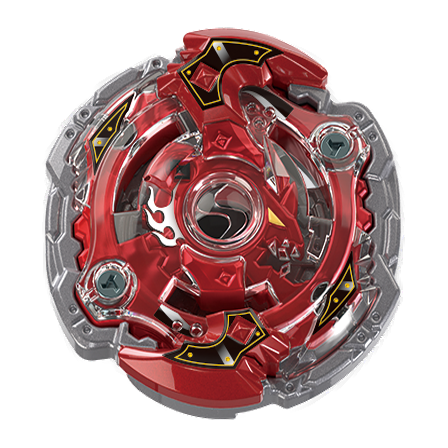
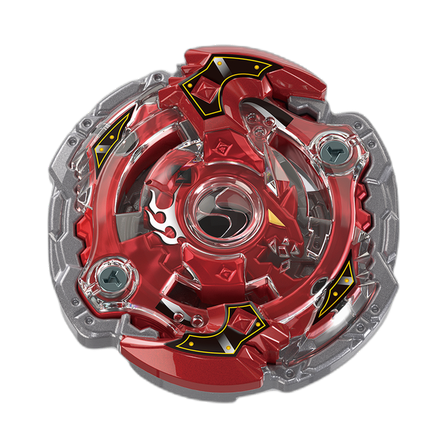
fix: update Storm Spriggan front image

diff --git a/index.html b/index.html
@@ -484,14 +484,14 @@
         "#app/services": "./src/app-services.js?v=20260714-scroll-affordance-overlay",
         "#app/markup-core": "./src/markup-core.js?v=20260714-scroll-affordance-overlay",
         "#app/anime-core": "./src/anime-core.js?v=20260720-burst-airdate-notes",
-        "#app/data-store": "./src/data-store.js?v=20260807-x-image-cache-refresh",
+        "#app/data-store": "./src/data-store.js?v=20260807-x-storm-spriggan-front-select-audit",
         "#app/search-data-decoder": "./src/search-data-decoder.js?v=20260720-burst-airdate-notes",
         "#app/ui-core": "./src/ui-core.js?v=20260731-mobile-highlight-fix",
         "#app/release-core": "./src/release-core.js?v=20260731-mobile-highlight-fix",
         "#app/scroll-affordance": "./src/scroll-affordance.js?v=20260719-dropdown-shadow-mounted-label",
         "#app/search-core": "./src/search-core.js?v=20260717-dead-code-cleanup",
         "#app/search-engine": "./src/search-engine.js?v=20260731-mobile-highlight-fix",
-        "#app/catalog-model": "./src/catalog-model.js?v=20260807-x-image-cache-refresh",
+        "#app/catalog-model": "./src/catalog-model.js?v=20260807-x-storm-spriggan-front-select-audit",
         "#app/collection-view": "./src/collection-view.js?v=20260731-mobile-highlight-fix",
         "#app/catalog-view": "./src/catalog-view.js?v=20260717-dead-code-cleanup",
         "#app/route-parser": "./src/route-parser.js?v=20260714-scroll-affordance-overlay",
@@ -500,7 +500,7 @@
         "#app/search-controller": "./src/search-controller.js?v=20260714-scroll-affordance-overlay",
         "#app/search-help-controller": "./src/search-help-controller.js?v=20260717-dead-code-cleanup",
         "#app/detail-view": "./src/detail-view.js?v=20260803-modal-tag-wheel-edge",
-        "#app/image-preview": "./src/image-preview.js?v=20260807-x-image-cache-refresh",
+        "#app/image-preview": "./src/image-preview.js?v=20260807-x-storm-spriggan-front-select-audit",
         "#app/modal-context": "./src/modal-context.js?v=20260714-scroll-affordance-overlay",
         "#app/style-loader": "./src/style-loader.js?v=20260804-mobile-modal-scrollbar-centering",
         "#app/feature-loaders": "./src/feature-loaders.js?v=20260717-dead-code-cleanup",

diff --git a/src/data-store.js b/src/data-store.js
@@ -8,7 +8,7 @@ const bookItems = [];
 const gameItems = [];
 const animeInfo = { title: "", overview: [], characters: [], episodes: [] };
 const searchIndexItems = [];
-const X_ASSET_CACHE_VERSION = "20260807-x-image-cache-refresh";
+const X_ASSET_CACHE_VERSION = "20260807-x-storm-spriggan-front-select-audit";
 
 const versionAssetUrl = source => {
   const value = String(source || "");

diff --git a/scripts/normalize-x-bey-front-images.py b/scripts/normalize-x-bey-front-images.py
@@ -16,7 +16,7 @@ from PIL import Image
 
 CONFIG_PATH = Path("data/source/x-bey-primary-images.json")
 ANGLE_CONFIG_PATH = Path("data/source/x-bey-angle-corrections.json")
-CONFIG_VERSION = "20260807-x-front-image-corrections"
+CONFIG_VERSION = "20260807-x-storm-spriggan-front-select-audit"
 CANVAS_SIZE = 448
 TARGET_FOREGROUND_SIZE = 360
 ALPHA_THRESHOLD = 3
@@ -74,9 +74,6 @@ def resize_premultiplied(image: Image.Image, size: tuple[int, int]) -> Image.Ima
 
 def normalized_image(source: Image.Image) -> tuple[Image.Image, list[int]]:
     rgba = source.convert("RGBA")
-    if rgba.size != (CANVAS_SIZE, CANVAS_SIZE):
-        raise ValueError(f"expected {CANVAS_SIZE}x{CANVAS_SIZE}, found {rgba.size}")
-
     crop = rgba.crop(foreground_box(rgba))
     for _ in range(4):
         width, height = crop.size
@@ -109,6 +106,7 @@ def config_entries(config: dict) -> list[dict]:
         if entry.get("sourceKind") not in {
             "official-assembled-front",
             "user-approved-generated-front",
+            "verified-existing-front",
         }:
             raise ValueError(f"{entry['id']}: unexpected selected source kind")
         entries.append(entry)
@@ -154,8 +152,8 @@ def main() -> int:
     validate_policy(config)
 
     entries = config_entries(config)
-    if len(entries) != 196:
-        raise ValueError(f"expected 196 front-view Beys, found {len(entries)}")
+    if len(entries) != 197:
+        raise ValueError(f"expected 197 front-view Beys, found {len(entries)}")
     ids = [entry["id"] for entry in entries]
     paths = [entry["image"] for entry in entries]
     if len(set(ids)) != len(ids) or len(set(paths)) != len(paths):
@@ -185,7 +183,13 @@ def main() -> int:
         if not args.write:
             raise ValueError(f"{entry['id']}: normalization metadata is missing; run with --write")
 
-        baseline_bytes = head_bytes(image_path)
+        if entry.get("normalizationInput") == "source-file":
+            source_file = entry.get("sourceFile")
+            if not source_file:
+                raise ValueError(f"{entry['id']}: source-file normalization needs sourceFile")
+            baseline_bytes = Path(source_file).read_bytes()
+        else:
+            baseline_bytes = head_bytes(image_path)
         entry["preNormalizationSha256"] = hashlib.sha256(baseline_bytes).hexdigest()
         with Image.open(io.BytesIO(baseline_bytes)) as image:
             result, box = normalized_image(image)

diff --git a/scripts/record-x-image-alpha-review.py b/scripts/record-x-image-alpha-review.py
@@ -14,7 +14,7 @@ from PIL import Image
 CANVAS_SIZE = 448
 MIN_MARGIN = 6
 MAX_FOREGROUND_SIZE = CANVAS_SIZE - MIN_MARGIN * 2
-REVIEW_VERSION = "20260807-x-front-image-corrections"
+REVIEW_VERSION = "20260807-x-storm-spriggan-front-select-audit"
 
 
 def parse_args() -> argparse.Namespace:

diff --git a/scripts/build-x-bey-angle-corrections.py b/scripts/build-x-bey-angle-corrections.py
@@ -110,7 +110,7 @@ SUPPLIED_FRONT_IDS = {
     "BEY-X-UX-19-BULLET-GRIFFON-H",
     "BEY-X-UX-20-GLORY-VALKYRIE-LF",
 }
-CONFIG_VERSION = "20260807-x-front-image-corrections"
+CONFIG_VERSION = "20260807-x-storm-spriggan-front-select-audit"
 
 
 def parse_args() -> argparse.Namespace:
